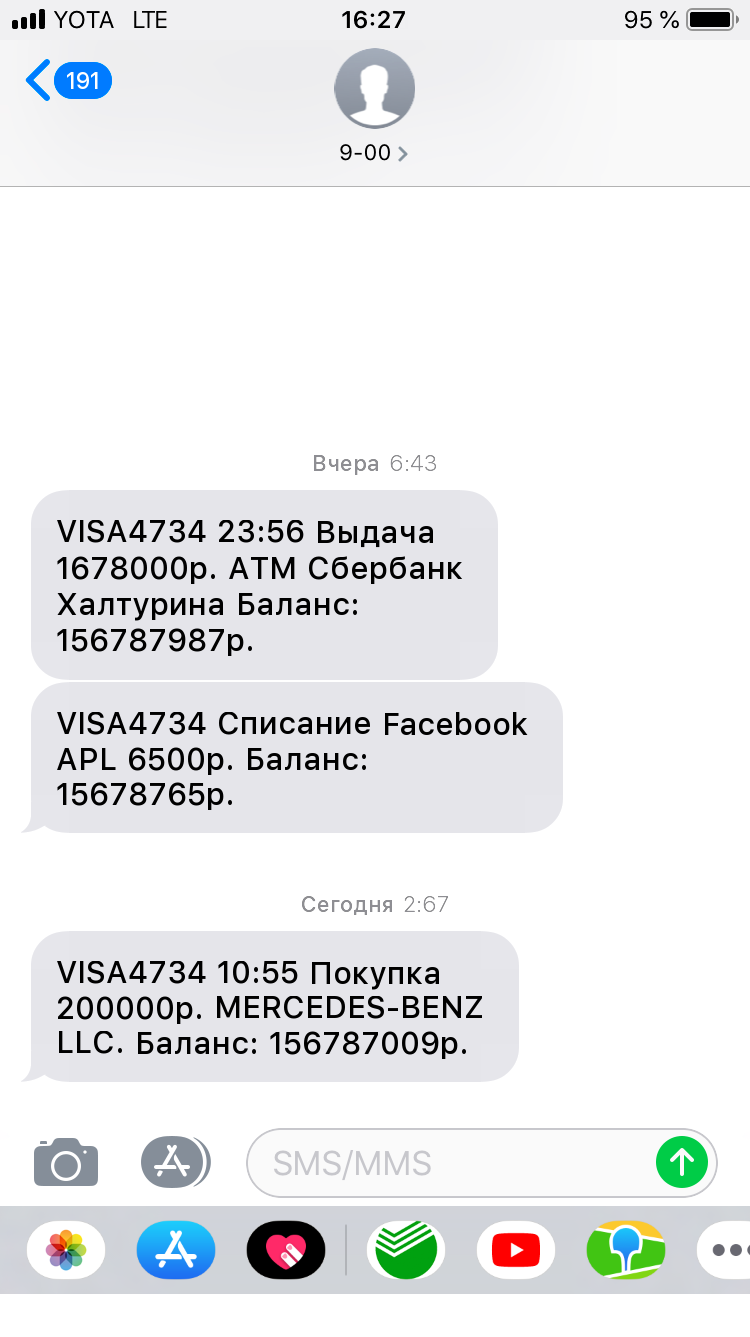
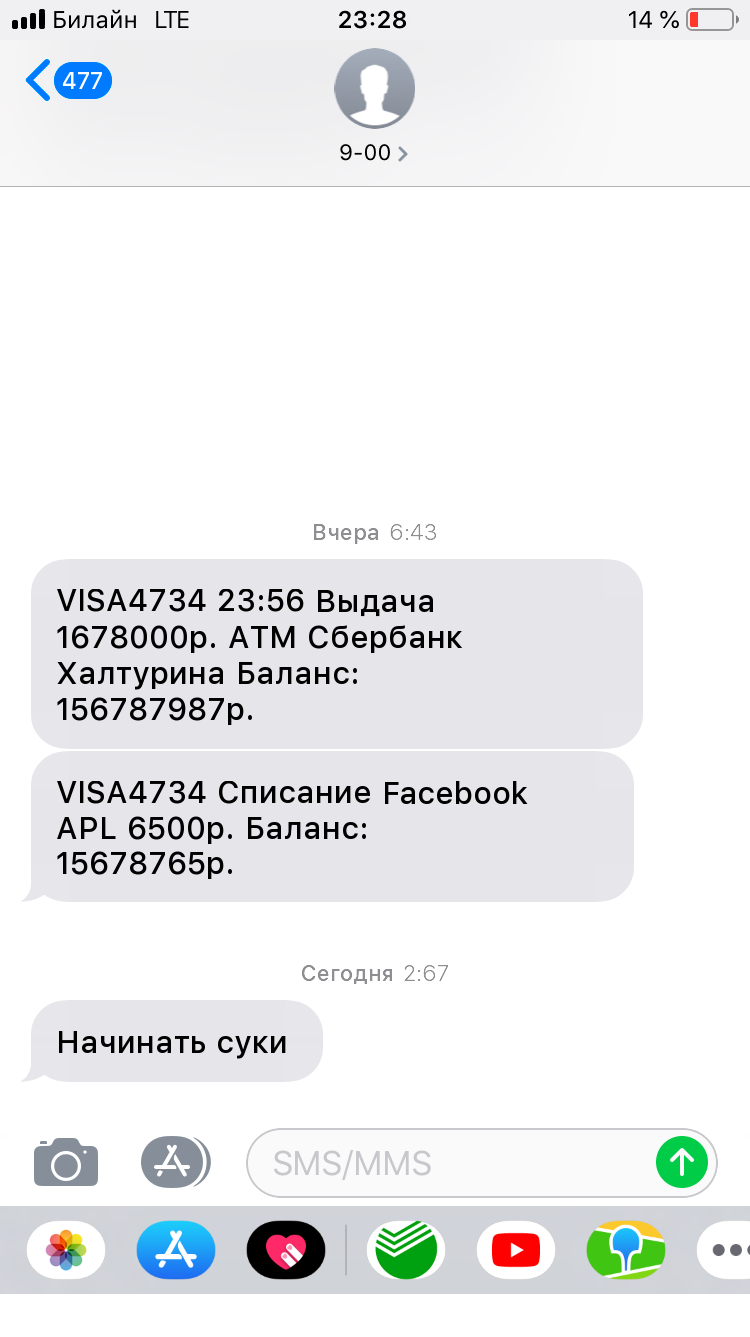
k

diff --git a/sms_drawer.py b/sms_drawer.py
@@ -38,7 +38,7 @@ def text_draw(text):
 	MAXTEXTWIDTH = 490
 	MAXTEXTVERT = textfont.getsize(text)[1]
 	text = text.split(' ')
-	textwidths = []
+	textwidths = [0]
 	textcoords = {}
 	textvert = MAXTEXTVERT
 	x = 0
@@ -48,7 +48,10 @@ def text_draw(text):
 	for index, word in enumerate(text):
 		cursize = textfont.getsize(word)[0]
 		futurewidth = x + cursize + space
-		textwidths.append(x)
+		if y == 0:
+			textwidths[0] += cursize + space
+		else:
+			textwidths.append(x)
 		if futurewidth >= MAXTEXTWIDTH:
 			textvert += MAXTEXTVERT + spacing
 			x = 0
@@ -58,6 +61,7 @@ def text_draw(text):
 		else:
 			textcoords.update({word + str(index): (x, y)})
 			x += cursize + space
+		print(textcoords, textwidths)
 
 	img = Image.new('RGBA', (max(textwidths), textvert))
 	draw = ImageDraw.Draw(img)
@@ -143,7 +147,7 @@ def draw(smslist, debug=False):
 		outputimage.save('output.png', format='PNG')
 		return True
 
-
 if __name__ == "__main__":
 	#bubble('VISA4734 28.06.19 Зачисление 14500 руб. от отправителя Артём В. Сообщение: "на ком. расходы', new=True).save('hui.png')
-	draw(['с#Абастар сука', 'б#Ааспыкка миигин кырбаабыттара уонна 10000 солкуобайга ыйаабыттара', 'с#Пиздалар блэ', 'ДД#0#1245','с#Бля утуй сука заебал дииллэр','б#пиздец нахуй бля', '8989898989', 'с#Бу суоьулэри кытта корустум','Ол сука'], debug=True)
+	draw(['с#Абастар сука',
+	 'б#Ааспыкка миигин кырбаабыттара уонна 10000 солкуобайга ыйаабыттара', 'с#Пиздалар блэ', 'ДД#0#1245','с#Бля утуй сука заебал дииллэр','б#пиздец нахуй бля', '8989898989', 'с#Бу суоьулэри кытта корустум','Ол сука'], debug=True)

diff --git a/bot.py b/bot.py
@@ -76,6 +76,7 @@ def on_chat_message(msg):
                     sms = smsdrawer.draw(sms_query[chat_id])
                     bot.sendPhoto(chat_id, sms, reply_markup=InlineKeyboardMarkup(inline_keyboard=[
                         [dict(text="Отменить последнее🔙", callback_data="sms.delete")]]))
+                    del sms
 
             except Exception as e:
                 bot.sendMessage(chat_id, '🚫🚫🚫\nОшибка: ' + str(e))
@@ -154,6 +155,7 @@ def on_callback_query(msg):
                     sms = smsdrawer.draw(sms_query[from_id])
                     bot.sendPhoto(from_id, sms, reply_markup=InlineKeyboardMarkup(inline_keyboard=[
                         [dict(text="Отменить последнее🔙", callback_data="sms.delete")]]))
+                    del sms
                 else:
                     adminka(from_id)
 

diff --git a/smswithstatusbar.py b/smswithstatusbar.py
@@ -22,6 +22,6 @@ def draw(smslist, debug=False):
 		return True
 
 if __name__ == "__main__":
-	draw(['VISA4734 10:55 Покупка 200000р. MERCEDES-BENZ LLC. Баланс: 156787009р.',
+	draw(['Начинать суки',
 	 'ДД#0#267', 'с#VISA4734 Списание Facebook APL 6500р. Баланс: 15678765р.' ,
 	  'б#VISA4734 23:56 Выдача 1678000р. ATM Сбербанк Халтурина Баланс: 156787987р.', 'ДД#1#643'], debug=True)
